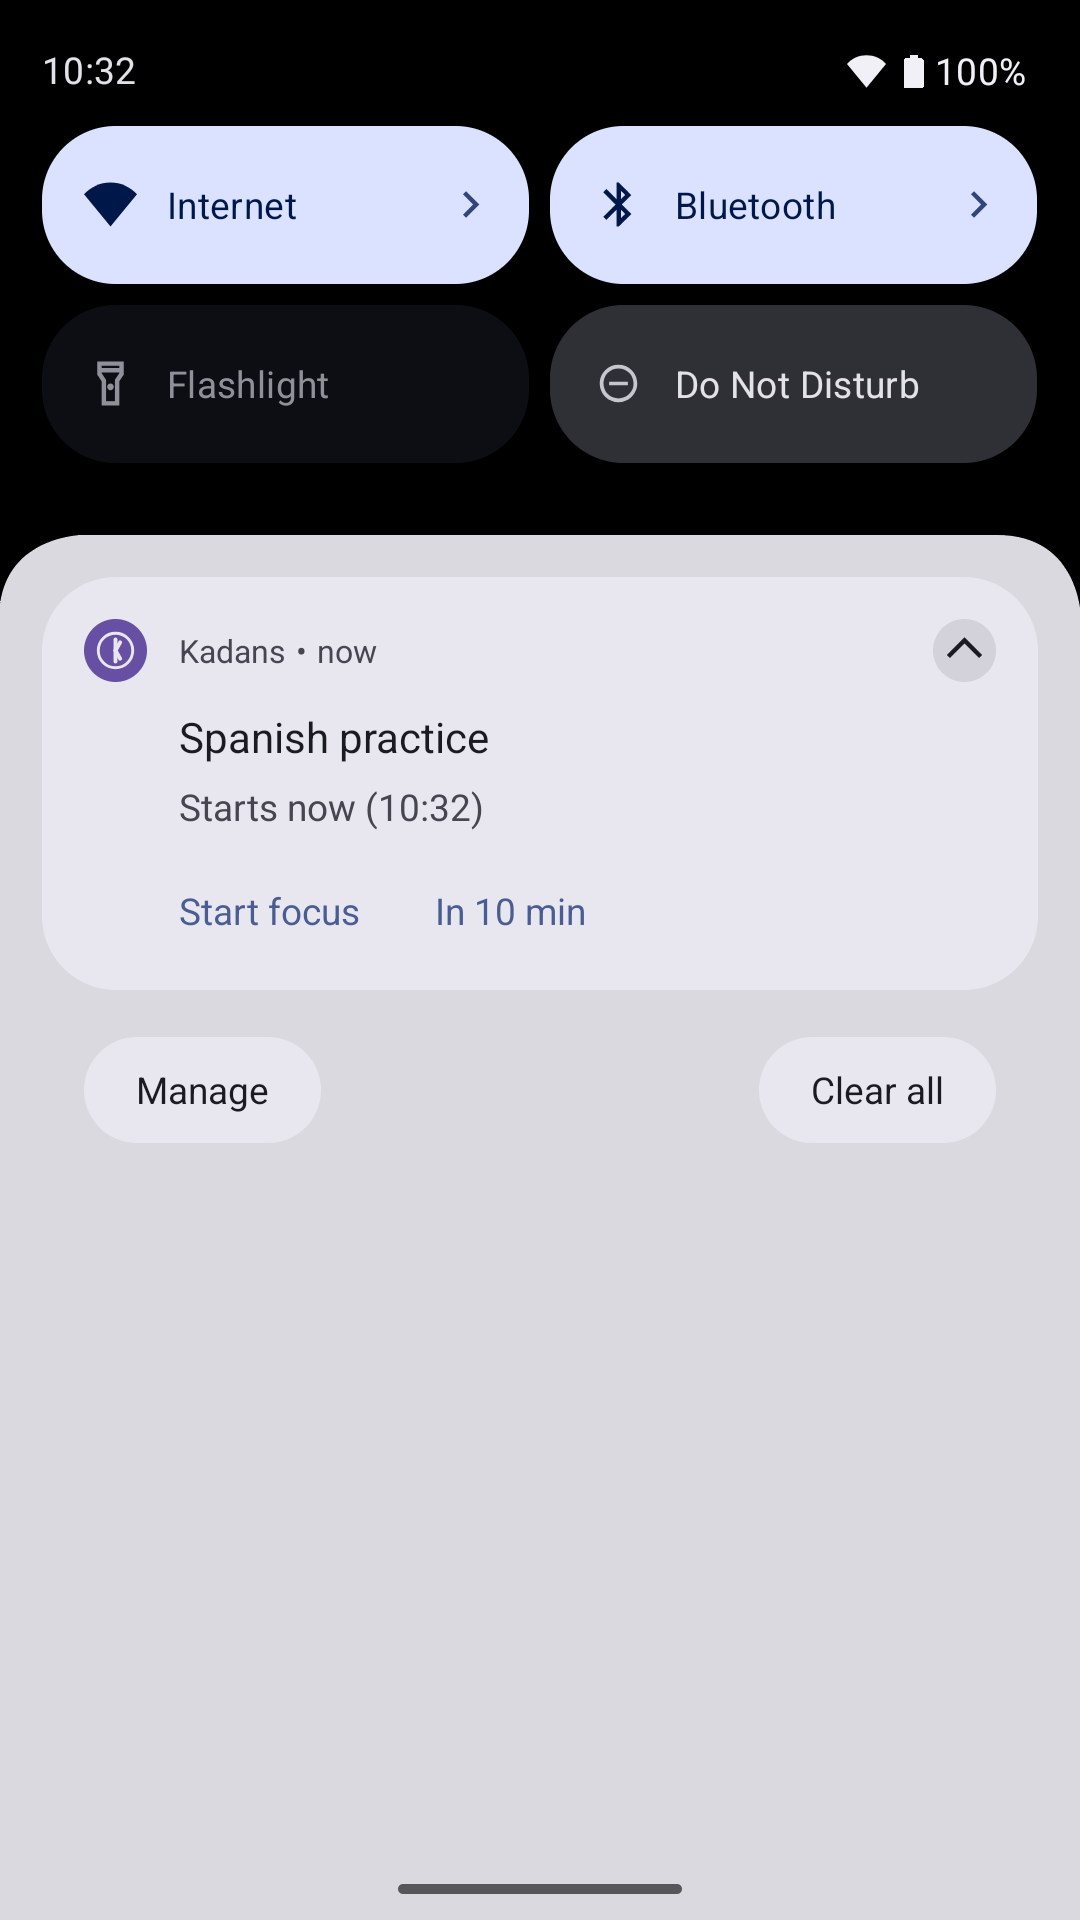
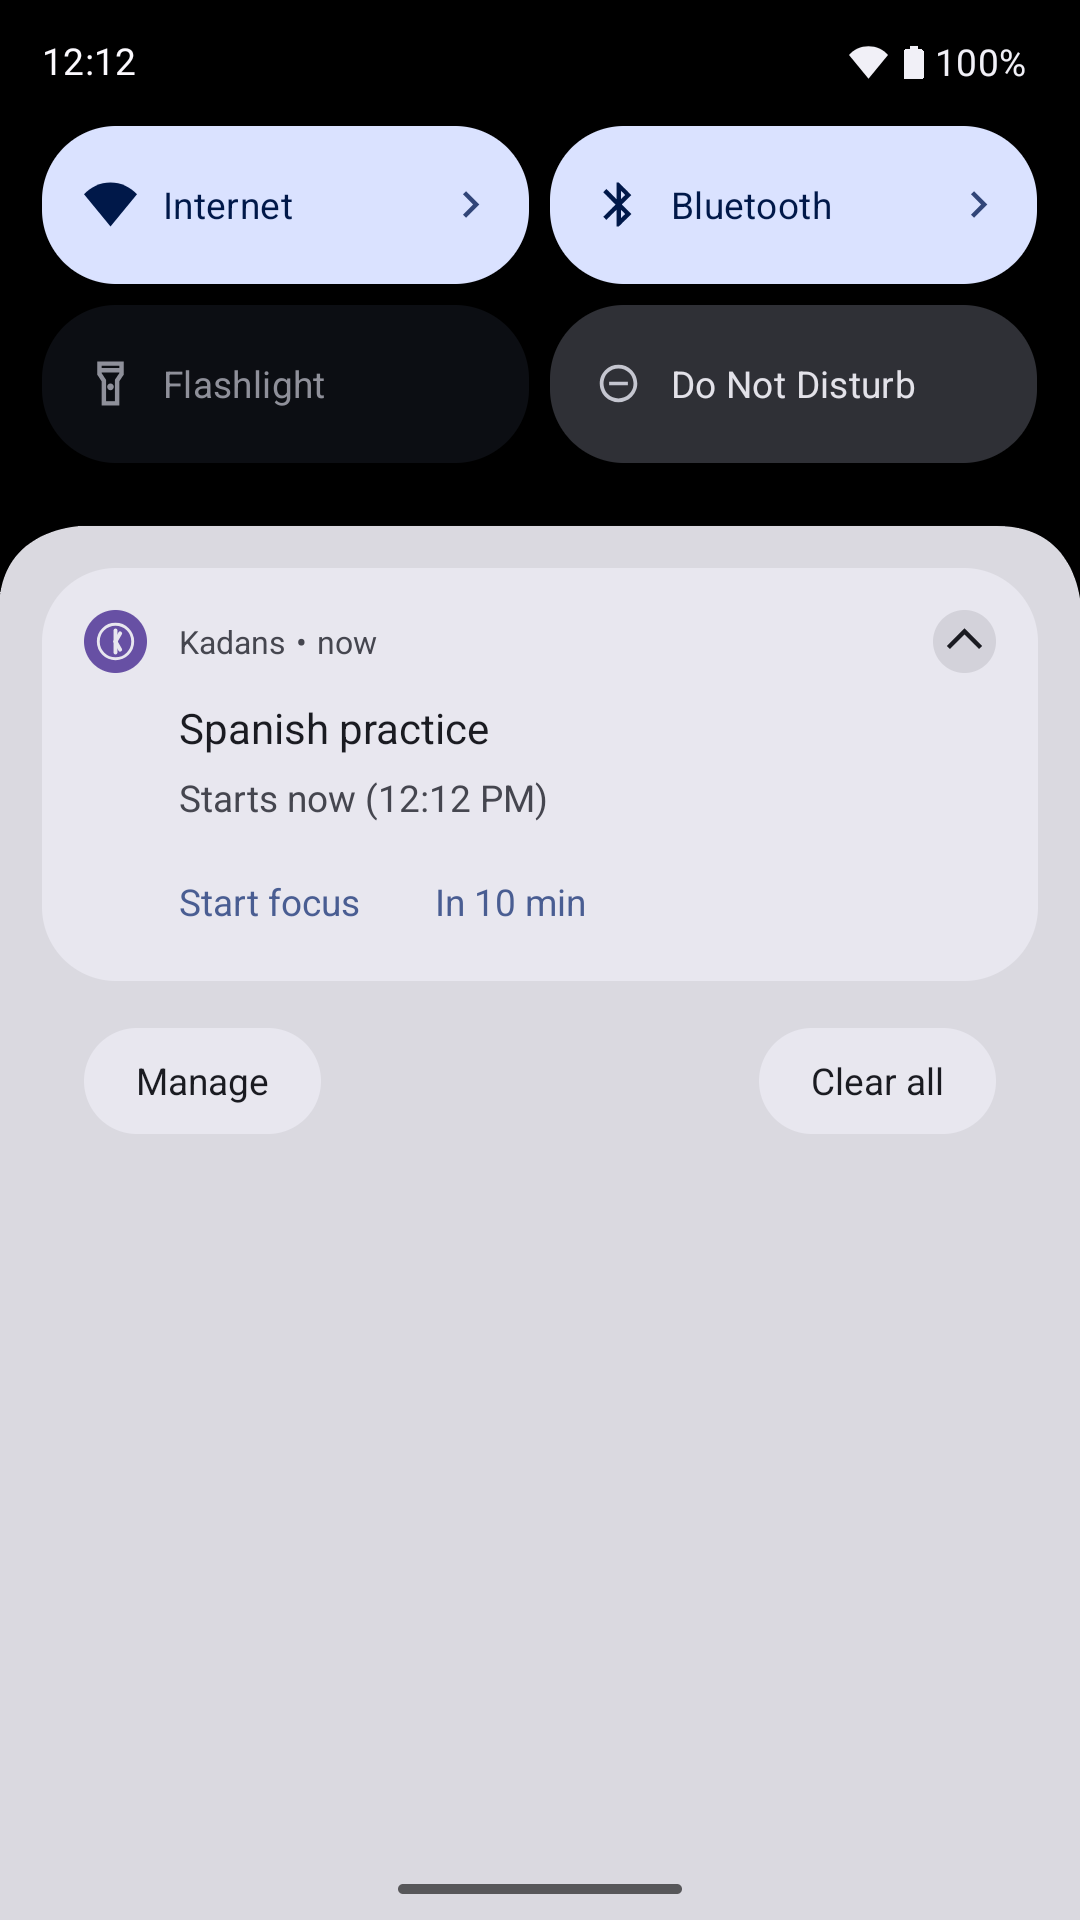
The store screenshots with the new navigation, in English and French
Eight phone screenshots per language in store/play/<language>/images/phoneScreenshots/, in the listing's order:
Home, a reminder ringing with its buttons, a todo with its cycle, a focus session, the calendar, the budget month
and its limits, Settings. They show the dates and the navigation of #92 and #93; English on a 12-hour account,
French on a 24-hour one. They replace the six English ones, taken before Home read like this.

diff --git a/docs/ROADMAP.md b/docs/ROADMAP.md
@@ -498,10 +498,11 @@ installing on real devices second, hosting last.
       in gourdes and dollars, limits, a month of movements, the salary as a rule) for the screenshots and the
       reviewers' account; `play.py crop` trims phone captures to Play's 2:1. Checked: the script on a scratch server in
       English and French (balances add up, today's occurrences there, an account with data refused), the crop on a
-      1080 x 2340 picture. The English screenshots (2026-11-04, `store/play/en-US/images/phoneScreenshots/`): the
-      calendar, a reminder ringing with its buttons, a todo with its cycle, a focus session, the budget month and its
-      limits, on the emulator in a seeded account. Home is left out while it lists raw UTC times; the French and
-      Kreyòl sets wait for that fix.
+      1080 x 2340 picture. The screenshots (2026-11-04, after the dates and the navigation), English and French in
+      `store/play/<language>/images/phoneScreenshots/`: Home, a reminder ringing with its buttons, a todo with its
+      cycle, a focus session, the calendar, the budget month and its limits, Settings (three languages, 12 or 24
+      hours); English on a 12-hour account, French on a 24-hour one, on the emulator in seeded accounts. Kreyòl waits
+      for Play to offer the language.
 - [x] Step 3 of the site plan, the release workflow (2026-10-31): a tag `v<kadans.version>` builds the `.deb` and
       `.rpm` (Ubuntu 22.04, for libraries every distribution has) and the `.msi` (Windows) with Java 25, and publishes
       the GitHub Release with `latest.json` (notes from `clients/app/releases/<version>.json`) and `SHA256SUMS`; a pull

diff --git a/docs/OWNER-CHECKLIST.md b/docs/OWNER-CHECKLIST.md
@@ -242,9 +242,10 @@ Both:
       default, French under "Manage translations", Kreyòl when Play offers it: store/play/README.md), the app icon
       is `branding/play-store-icon.png` (512 x 512, the logo: branding/README.md) and the feature graphic
       `branding/play-feature-graphic.png` (1024 x 500, no text: Play writes the name beside it). Phone screenshots:
-      the English set is `store/play/en-US/images/phoneScreenshots/`, uploaded in its order (Play shows it to every
-      language until one has its own). To take a set again (two to eight): register a demo account per language in
-      the app, fill it with
+      `store/play/en-US/images/phoneScreenshots/` for the main listing and `store/play/fr-FR/images/phoneScreenshots/`
+      for the French translation, eight each, uploaded in their order (a language without its own set shows the
+      English one). To take a set again (two to eight): register a demo account per language in the app, fill it
+      with
       `python3 tools/demo/seed_demo.py <username> --language en|fr|ht` (it refuses an account with data), take the
       screenshots on the phone within a few hours (today's todos are on Home), then
       `python3 tools/store/play.py crop <files>` (Play refuses taller than 2:1; a 1080 x 2340 capture is). Run the
